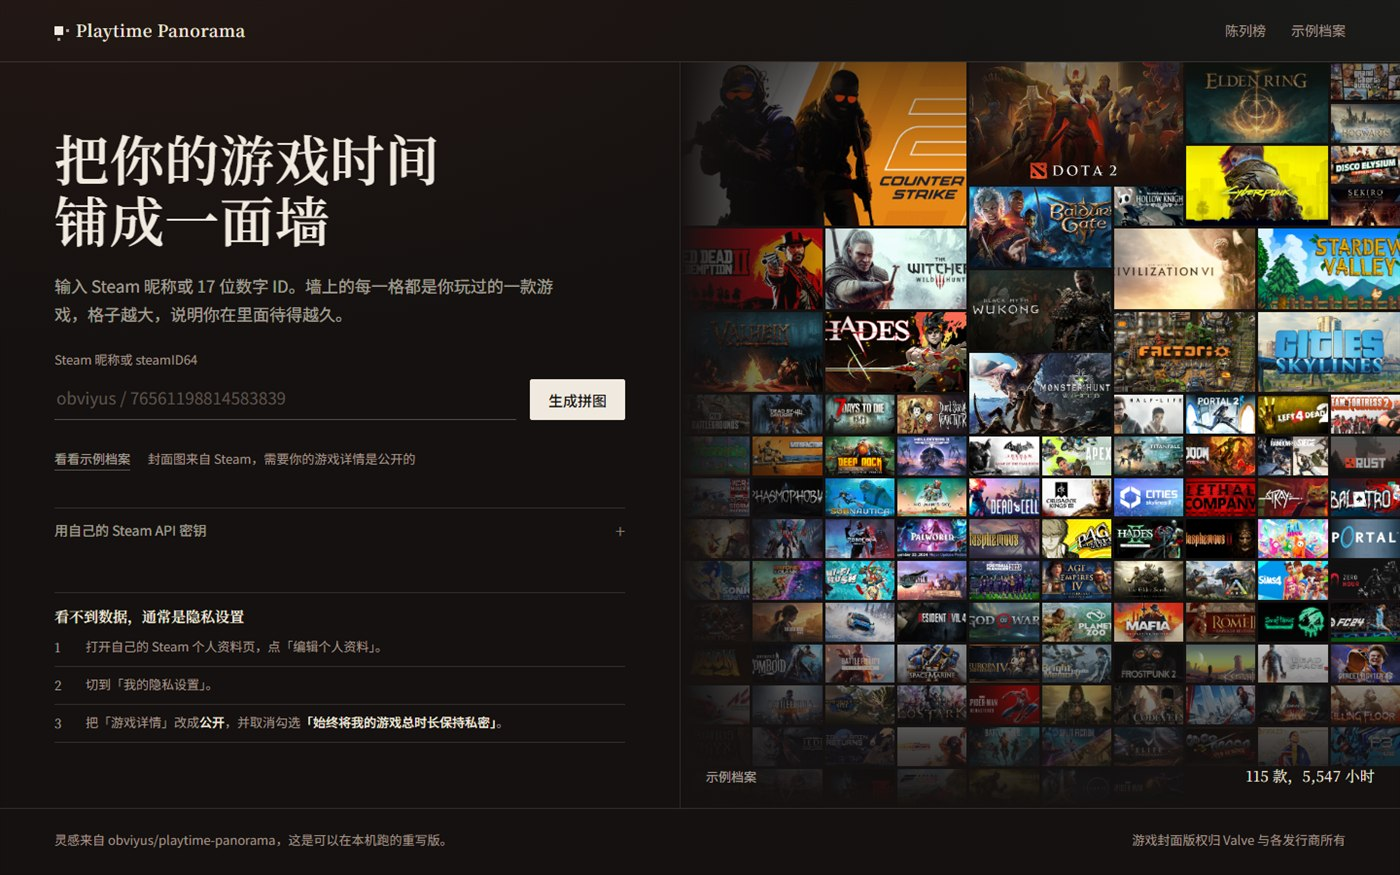
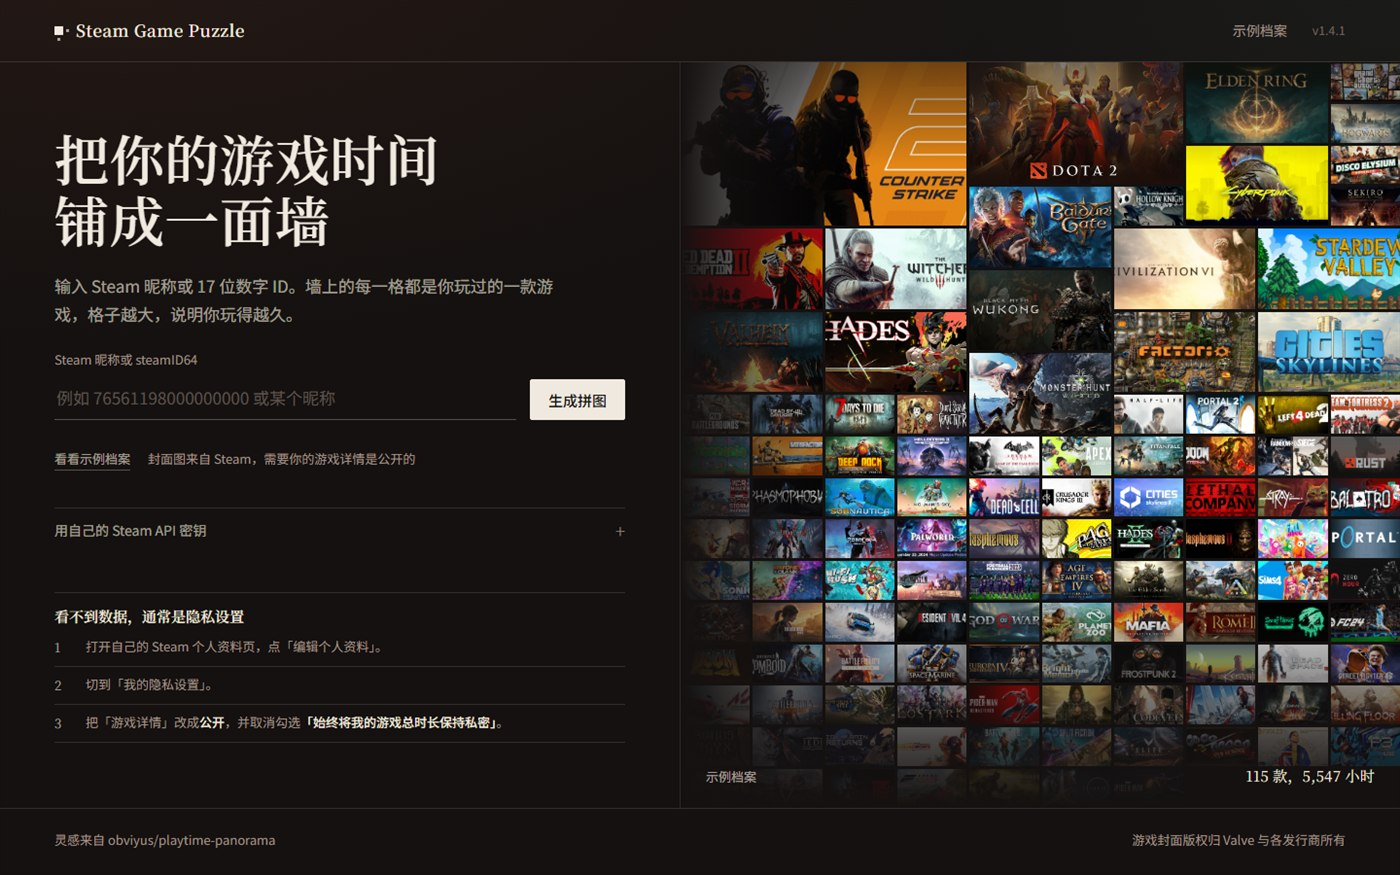
docs: 换掉过期的截图，去掉 ASCII 示意图
- 两张图都用当前版本重拍（新 logo、带版本号、展签可见）
- 删掉 ASCII 版式图（等宽字体里中英混排对不齐）
- 接口表去掉「方法」列（三个都是 GET，那一列只会让表头折行）

diff --git a/README.en.md b/README.en.md
@@ -34,15 +34,6 @@ and the wall dims, leaving a wall label in the corner for the tile under the cur
 | **Optional caption** | 2× PNG export with name / game count / total hours along the bottom |
 | **Honest errors** | Missing key, rejected key, private profile, Steam unreachable — each with a next step |
 
-```text
-┌──────────────────────────┬──────────────────────────┐
-│  Counter-Strike 2  5×5   │  Dota 2            5×5   │
-├───────────┬──────────────┴───────┬──────────────────┤
-│ Elden Ring│ 1×1 tiles fill holes │ Baldur's Gate 3  │
-│    4×4    │                      │       3×3        │
-└───────────┴──────────────────────┴──────────────────┘
-```
-
 ## Screenshots
 
 <img src="docs/home.jpg" width="820" alt="Home page">
@@ -128,11 +119,13 @@ So the fetcher races the old path against "look up the hash → new path" and ta
 
 ## API
 
-| Method | Path | Notes |
-|---|---|---|
-| GET | `/api/library/:identifier` | Vanity name or steamID64 → `{ steamID, displayName, games, fetchedAt, cached, stale }` |
-| GET | `/api/health` | Version, build fingerprint, key configured, cover count, missing covers |
-| GET | `/cover/:appid.jpg` | Cover image (cached on disk; ETag) |
+All three are `GET`:
+
+| Path | Notes |
+|---|---|
+| `/api/library/:identifier` | Vanity name or steamID64 → `{ steamID, displayName, games, fetchedAt, cached, stale }` |
+| `/api/health` | Version, build fingerprint, key configured, cover count, missing covers |
+| `/cover/:appid.jpg` | Cover image (cached on disk; ETag) |
 
 `/api/library/:id?refresh=1` bypasses the cache; `X-Steam-API-Key` or `?api_key=` passes a one-off key.
 
